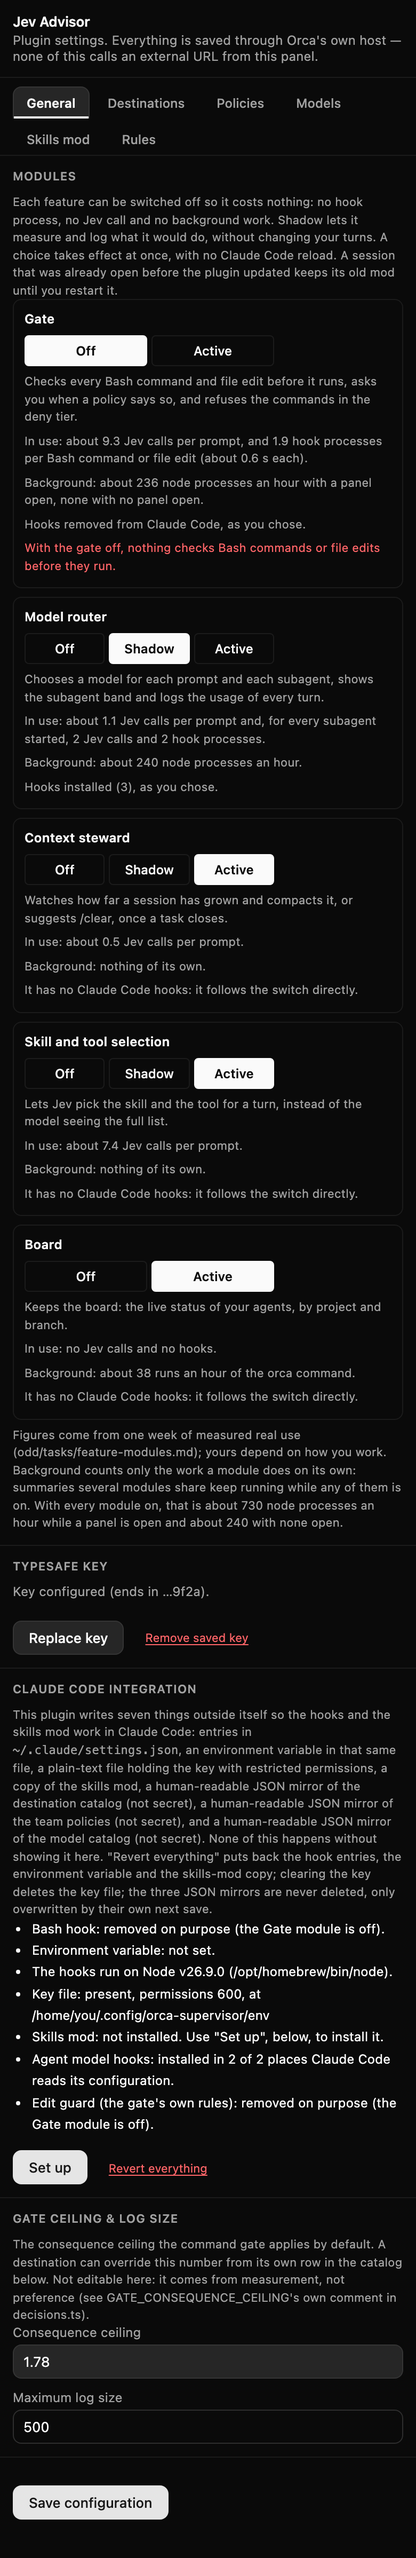
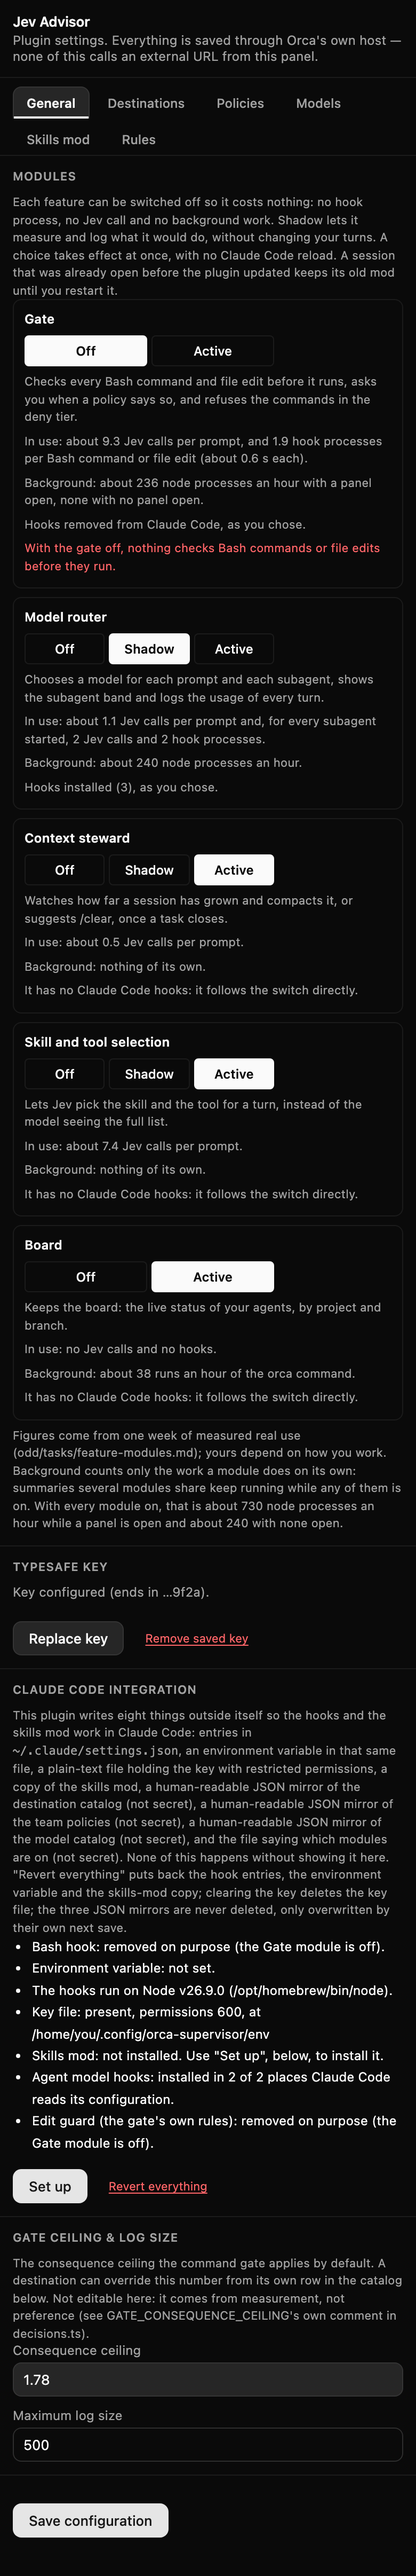
docs(panel): list the module file among what the plugin writes, and reshoot after the 0.6.29 merge

diff --git a/adapters/orca/panels/config.html b/adapters/orca/panels/config.html
@@ -754,7 +754,7 @@
           'secret.configured': 'Clave configurada (termina en …{{tail}}).',
           'secret.notConfigured': 'Sin clave configurada.',
           'integration.heading': 'Integración con Claude Code',
-          'integration.hint': 'Este plugin escribe siete cosas fuera de sí mismo para que los hooks y el mod de skills funcionen en Claude Code: entradas en <code>~/.claude/settings.json</code>, una variable de entorno en ese mismo archivo, un archivo con la clave en texto plano con permisos restringidos, una copia del mod de skills, un espejo del catálogo de destinos en JSON legible (no es secreto), un espejo de las políticas del equipo en JSON legible (no es secreto), y un espejo del catálogo de modelos en JSON legible (no es secreto). Nada de esto se hace sin mostrarlo aquí. "Revertir todo" deshace las entradas de hooks, la variable de entorno y la copia del mod de skills; borrar la clave elimina el archivo de la clave; los tres espejos JSON nunca se borran, solo se sobrescriben con su siguiente guardado.',
+          'integration.hint': 'Este plugin escribe ocho cosas fuera de sí mismo para que los hooks y el mod de skills funcionen en Claude Code: entradas en <code>~/.claude/settings.json</code>, una variable de entorno en ese mismo archivo, un archivo con la clave en texto plano con permisos restringidos, una copia del mod de skills, un espejo del catálogo de destinos en JSON legible (no es secreto), un espejo de las políticas del equipo en JSON legible (no es secreto), un espejo del catálogo de modelos en JSON legible (no es secreto) y el archivo de los módulos encendidos (no es secreto). Nada de esto se hace sin mostrarlo aquí. "Revertir todo" deshace las entradas de hooks, la variable de entorno y la copia del mod de skills; borrar la clave elimina el archivo de la clave; los tres espejos JSON nunca se borran, solo se sobrescriben con su siguiente guardado.',
           'integration.checking': 'Comprobando…',
           'integration.statusUnavailable': 'No se pudo leer el estado.',
           'integration.hookInstalled': 'Hook de Bash: puesto, en {{path}}',
@@ -1155,7 +1155,7 @@
           'secret.configured': 'Key configured (ends in …{{tail}}).',
           'secret.notConfigured': 'No key configured.',
           'integration.heading': 'Claude Code integration',
-          'integration.hint': "This plugin writes seven things outside itself so the hooks and the skills mod work in Claude Code: entries in <code>~/.claude/settings.json</code>, an environment variable in that same file, a plain-text file holding the key with restricted permissions, a copy of the skills mod, a human-readable JSON mirror of the destination catalog (not secret), a human-readable JSON mirror of the team policies (not secret), and a human-readable JSON mirror of the model catalog (not secret). None of this happens without showing it here. \"Revert everything\" puts back the hook entries, the environment variable and the skills-mod copy; clearing the key deletes the key file; the three JSON mirrors are never deleted, only overwritten by their own next save.",
+          'integration.hint': "This plugin writes eight things outside itself so the hooks and the skills mod work in Claude Code: entries in <code>~/.claude/settings.json</code>, an environment variable in that same file, a plain-text file holding the key with restricted permissions, a copy of the skills mod, a human-readable JSON mirror of the destination catalog (not secret), a human-readable JSON mirror of the team policies (not secret), a human-readable JSON mirror of the model catalog (not secret), and the file saying which modules are on (not secret). None of this happens without showing it here. \"Revert everything\" puts back the hook entries, the environment variable and the skills-mod copy; clearing the key deletes the key file; the three JSON mirrors are never deleted, only overwritten by their own next save.",
           'integration.checking': 'Checking…',
           'integration.statusUnavailable': 'Could not read the status.',
           'integration.hookInstalled': 'Bash hook: installed, at {{path}}',
